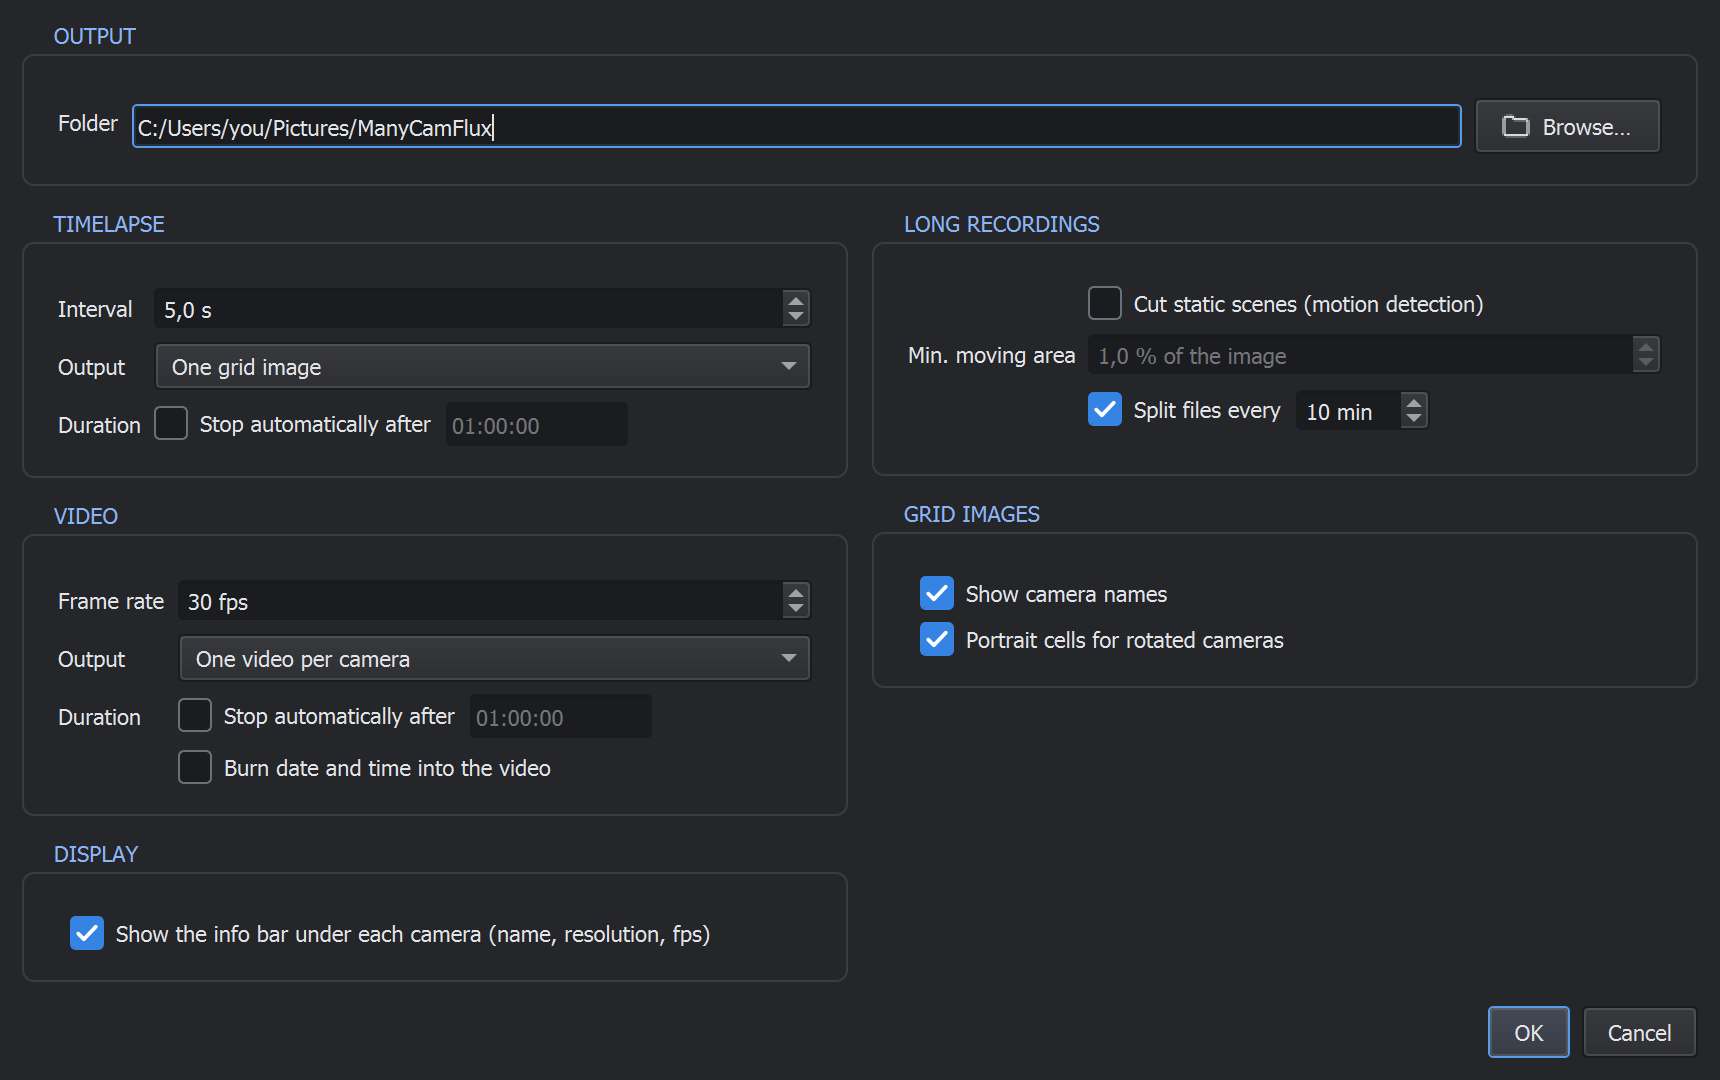
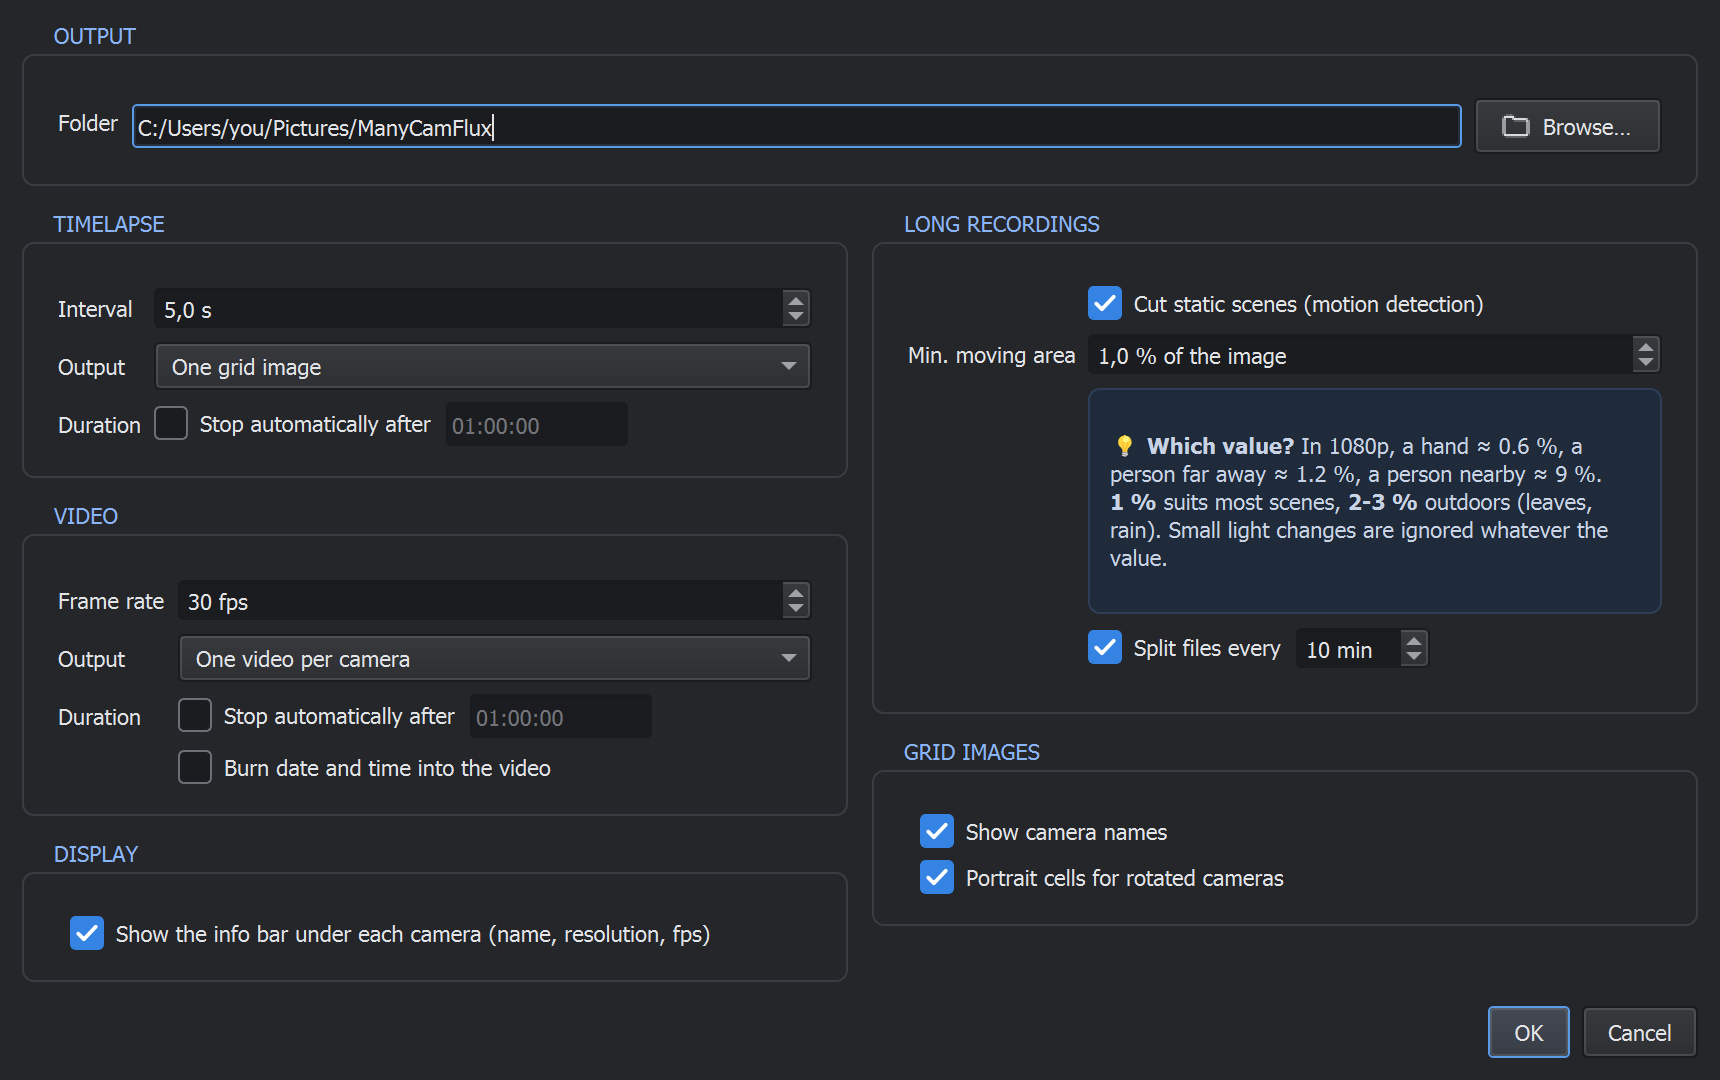
Settings: tip bubble with reference values for the motion area

diff --git a/dialogs.py b/dialogs.py
@@ -272,15 +272,19 @@ class CaptureSettingsDialog(QDialog):
         self.threshold.setDecimals(1)
         self.threshold.setSingleStep(0.5)
         self.threshold.setSuffix(" % of the image")
-        self.threshold.setToolTip(
-            "How big a change must be to count as motion (lower = more sensitive).\n"
-            "In 1080p: a hand ≈ 0.6 %, a person far away ≈ 1.2 %, a person nearby ≈ 9 %.\n"
-            "1 % (default) suits most scenes; 2-3 % outdoors (leaves, rain).\n"
-            "Small light changes are ignored whatever the value; a light switched on always counts.")
+        self.threshold.setToolTip("How big a change must be to count as motion (lower = more sensitive)")
         self.threshold.setValue(cfg["video_motion_threshold"])
-        self.threshold.setEnabled(self.motion.isChecked())
-        self.motion.toggled.connect(self.threshold.setEnabled)
         form.addRow("Min. moving area", self.threshold)
+        tip = QLabel("💡 <b>Which value?</b> In 1080p, a hand ≈ 0.6 %, a person far away ≈ 1.2 %, "
+                     "a person nearby ≈ 9 %.<br><b>1 %</b> suits most scenes, <b>2-3 %</b> outdoors "
+                     "(leaves, rain). Small light changes are ignored whatever the value.")
+        tip.setWordWrap(True)
+        tip.setStyleSheet("QLabel { background: #1f2a3a; border: 1px solid #2d3f57; border-radius: 6px;"
+                          " padding: 6px 8px; color: #c8d4e6; } QLabel:disabled { color: #6b7280; }")
+        form.addRow("", tip)
+        for w in (self.threshold, tip):
+            w.setEnabled(self.motion.isChecked())
+            self.motion.toggled.connect(w.setEnabled)
         split_row = QHBoxLayout()
         self.split = QCheckBox("Split files every")
         self.split.setChecked(cfg["video_split"])
